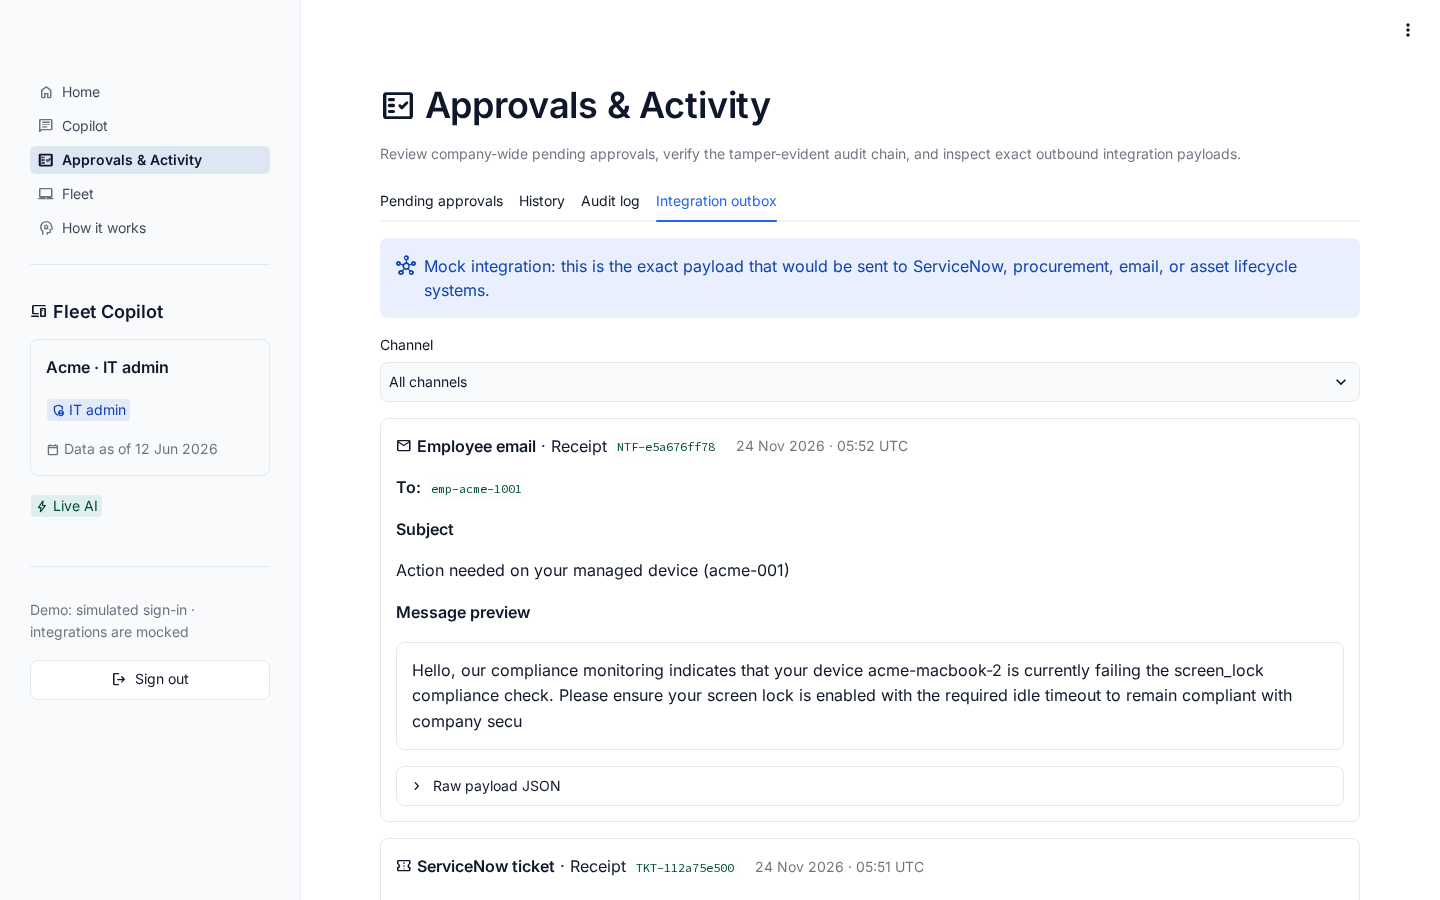
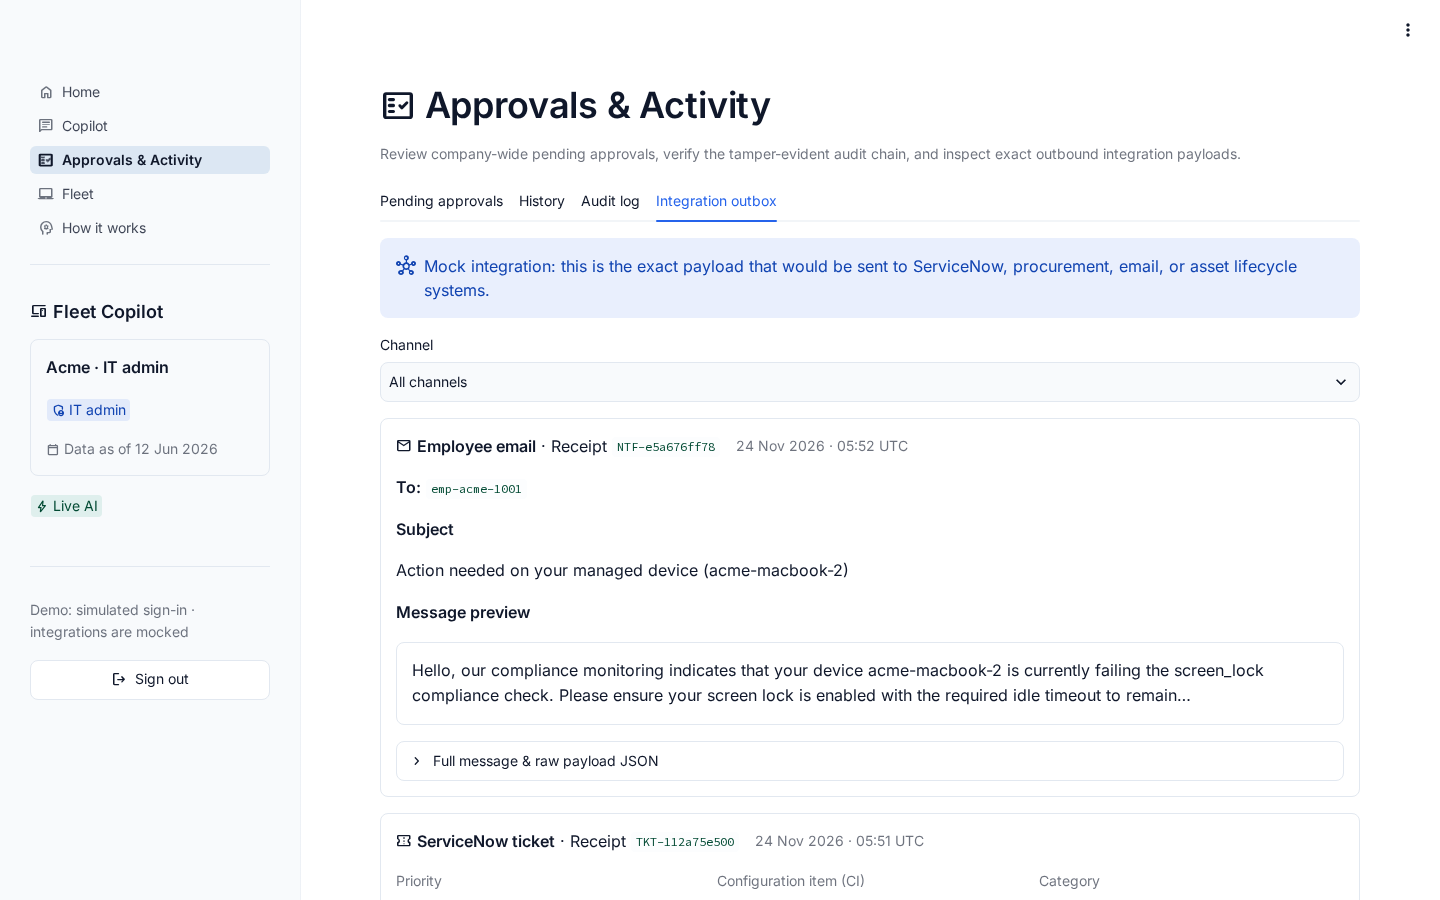
docs(ui): refresh D2c light and dark-mode desktop screenshots

diff --git a/docs/screenshots/README.md b/docs/screenshots/README.md
@@ -1,14 +1,14 @@
 # Fleet Copilot Desktop Screenshots
 
-Captured at `1440×900` against a live local PostgreSQL 16 + Gemini 3.8 Flash session during the
-full multi-persona reviewer walkthrough.
+Captured at `1440×900` (light theme) and `1100×900` (dark theme) against a local PostgreSQL 16 +
+Gemini 3.8 Flash session during the multi-persona reviewer walkthrough.
 
 | File | What it shows |
 |---|---|
 | [`01-sign-in.png`](01-sign-in.png) | Access-code sign-in page with four isolated demo personas (`Acme · IT admin`, `Acme · Viewer`, `Globex · IT admin`, `Initech · IT admin`). |
-| [`02-home-briefing.png`](02-home-briefing.png) | `Acme · IT admin` Home fleet briefing: KPI tiles, humanized policy thresholds, battery wear chart with 800-cycle dashed threshold, and `Ask about this` / `Propose this action` CTAs. |
-| [`03-copilot-citation-popover.png`](03-copilot-citation-popover.png) | Copilot wide centered transcript, sidebar `Chats` rail, neutral avatars, compact citation chips, and an open `[E#]` provenance popover showing snapshot ID, timestamp, metric, and value. |
-| [`04-copilot-inspector.png`](04-copilot-inspector.png) | Copilot two-column layout with the turn Inspector opened from the answer-card button showing all five tabs (`Plan`, `Tools`, `Evidence`, `Verify`, `Usage`). |
+| [`02-home-briefing.png`](02-home-briefing.png) | `Acme · IT admin` Home fleet briefing: KPI tiles, humanized policy thresholds, short-axis battery wear chart (`Cycles`) with 800-cycle dashed threshold, and `Ask about this` / `Propose this action` CTAs. |
+| [`03-copilot-citation-popover.png`](03-copilot-citation-popover.png) | Copilot wide centered transcript, sidebar `Chats` rail, neutral avatars, compact citation chips, open `[E2]` provenance popover, and hostname-titled inline chart (`acme-macbook-1 · Battery`). |
+| [`04-copilot-inspector.png`](04-copilot-inspector.png) | Copilot two-column layout with the widened right-hand Inspector opened on `Evidence` showing all five tabs (`Plan`, `Tools`, `Evidence`, `Verify`, `Usage`) and compact bordered evidence cards. |
 | [`05-copilot-proposal-card.png`](05-copilot-proposal-card.png) | Staged `open_remediation_ticket` action proposal card paused at human approval with `Awaiting approval` badge, expiry countdown, rationale, and policy threshold footer. |
 | [`06-copilot-refusal-card.png`](06-copilot-refusal-card.png) | `Globex · IT admin` policy refusal for a 32 GB RAM upgrade on a soldered ThinkPad X1 Carbon Gen 11 with verified catalog alternatives and `Stage this instead` controls. |
 | [`07-copilot-chart-answer.png`](07-copilot-chart-answer.png) | Inline 30-day low-disk Vega-Lite line chart with single title, `Pin to Saved charts` button, and dashed 15% policy threshold rule. |
@@ -16,13 +16,15 @@ full multi-persona reviewer walkthrough.
 | [`09-approvals-pending.png`](09-approvals-pending.png) | Approvals & Activity → `Pending approvals` queue with company-wide staged proposal, evidence snapshot chips, `Open chat`, and `Approve` / `Reject` buttons. |
 | [`10-approvals-history.png`](10-approvals-history.png) | Approvals & Activity → `History` showing executed proposals with reviewer, decision channel (`queue` vs `chat`), timestamps, receipts, and outbox filter links. |
 | [`11-approvals-audit-chain.png`](11-approvals-audit-chain.png) | Approvals & Activity → `Audit log` displaying the `Audit chain verified ✓` banner from `copilot.verify_audit_chain()`, event/thread filters, and humanized audit timeline. |
-| [`12-approvals-outbox.png`](12-approvals-outbox.png) | Approvals & Activity → `Integration outbox` displaying the mock notice, formatted `Employee email` message preview card, `ServiceNow ticket` card, and raw JSON payloads. |
-| [`13-fleet-devices-table.png`](13-fleet-devices-table.png) | Fleet → `Devices` filterable inventory table with disk/RAM progress bars, `Low`/`OK` policy indicator, battery condition, and device picker. |
-| [`14-fleet-device-page.png`](14-fleet-device-page.png) | Fleet inline Device detail view showing device profile, 30-day Disk/RAM/Battery resource trend charts with policy threshold lines, and 30-day compliance timeline. |
+| [`12-approvals-outbox.png`](12-approvals-outbox.png) | Approvals & Activity → `Integration outbox` displaying the mock notice, `Employee email` card with hostname subject (`acme-macbook-2`), word-boundary preview with ellipsis, expandable full message + raw JSON, and `ServiceNow ticket` card. |
+| [`13-fleet-devices-table.png`](13-fleet-devices-table.png) | Fleet → `Devices` filterable inventory table with row-click selection synced to the device picker, disk/RAM progress bars, `Low`/`OK` policy indicator, and battery condition. |
+| [`14-fleet-device-page.png`](14-fleet-device-page.png) | Fleet inline Device detail view (`acme-macbook-1`) showing device profile, 30-day Disk/RAM/Battery trend charts with policy threshold lines, and 30-day compliance heatmap with plain-English check names (`Disk encryption`, `OS up to date`, `Screen lock`). |
 | [`15-fleet-saved-charts.png`](15-fleet-saved-charts.png) | Fleet → `Saved charts` displaying the pinned 30-day low-disk chart with `Refresh`, `Download spec (JSON)`, `Download data (CSV)`, `Open source chat`, and `Delete`. |
-| [`16-how-architecture.png`](16-how-architecture.png) | How it works → `Architecture` showing the LangGraph execution graph (highlighting the latest turn's visited nodes), system & tenancy diagram, and 13-tool catalog. |
-| [`17-how-guardrails.png`](17-how-guardrails.png) | How it works → `Guardrails` interactive security playground with 8 adversarial scenarios, defense-layer notes, and instant `$0` recorded refusal results. |
+| [`16-how-architecture.png`](16-how-architecture.png) | How it works → `Architecture` (light mode) showing the multi-row top-to-bottom LangGraph execution graph (highlighting the latest turn's visited nodes), system & tenancy diagram, and 13-tool catalog. |
+| [`17-how-guardrails.png`](17-how-guardrails.png) | How it works → `Guardrails` interactive security playground with an unclipped 2-column scenario grid, company-aware tenant-isolation note, instant `$0` recorded refusals, and non-blocking live tests. |
 | [`18-how-evaluation.png`](18-how-evaluation.png) | How it works → `Evaluation` showing the 4 hard release gates (100% PASS), 4 quality targets (including transparent `BELOW TARGET` badge on `QA correctness`), and `make eval` reproduction note. |
-| [`19-how-examples.png`](19-how-examples.png) | How it works → `Examples` read-only gallery of all 51 recorded evaluation runs rendered via the shared Answer card with a `Recorded example` badge. |
+| [`19-how-examples.png`](19-how-examples.png) | How it works → `Examples` read-only gallery of all 51 recorded evaluation runs defaulting to `Insights` → `ins-acme-battery` with `Passed`/`Missed` grade badge, original question prompt, and shared Answer card. |
 | [`20-how-demo-controls.png`](20-how-demo-controls.png) | How it works → `Demo controls` (`it_admin` only) with `toctou-resolved` and `prompt-injection-software` scenario injectors and `Reset this company's demo` backed by `demo_ops`. |
 | [`21-viewer-home.png`](21-viewer-home.png) | `Acme · Viewer` Home briefing proving strict read-only RBAC: same Acme fleet briefing with zero `Propose this action` controls rendered. |
+| [`22-dark-architecture.png`](22-dark-architecture.png) | Dark-mode (`1100×900`) How it works → `Architecture` showing theme-aware light-on-dark Graphviz edge labels and legible multi-row agent and system diagrams at narrower desktop width. |
+| [`23-dark-copilot-inspector.png`](23-dark-copilot-inspector.png) | Dark-mode (`1100×900`) Copilot with the Inspector panel open on `Evidence`, fitting all five tabs (`Plan`, `Tools`, `Evidence`, `Verify`, `Usage`) and compact evidence cards without horizontal overflow. |
